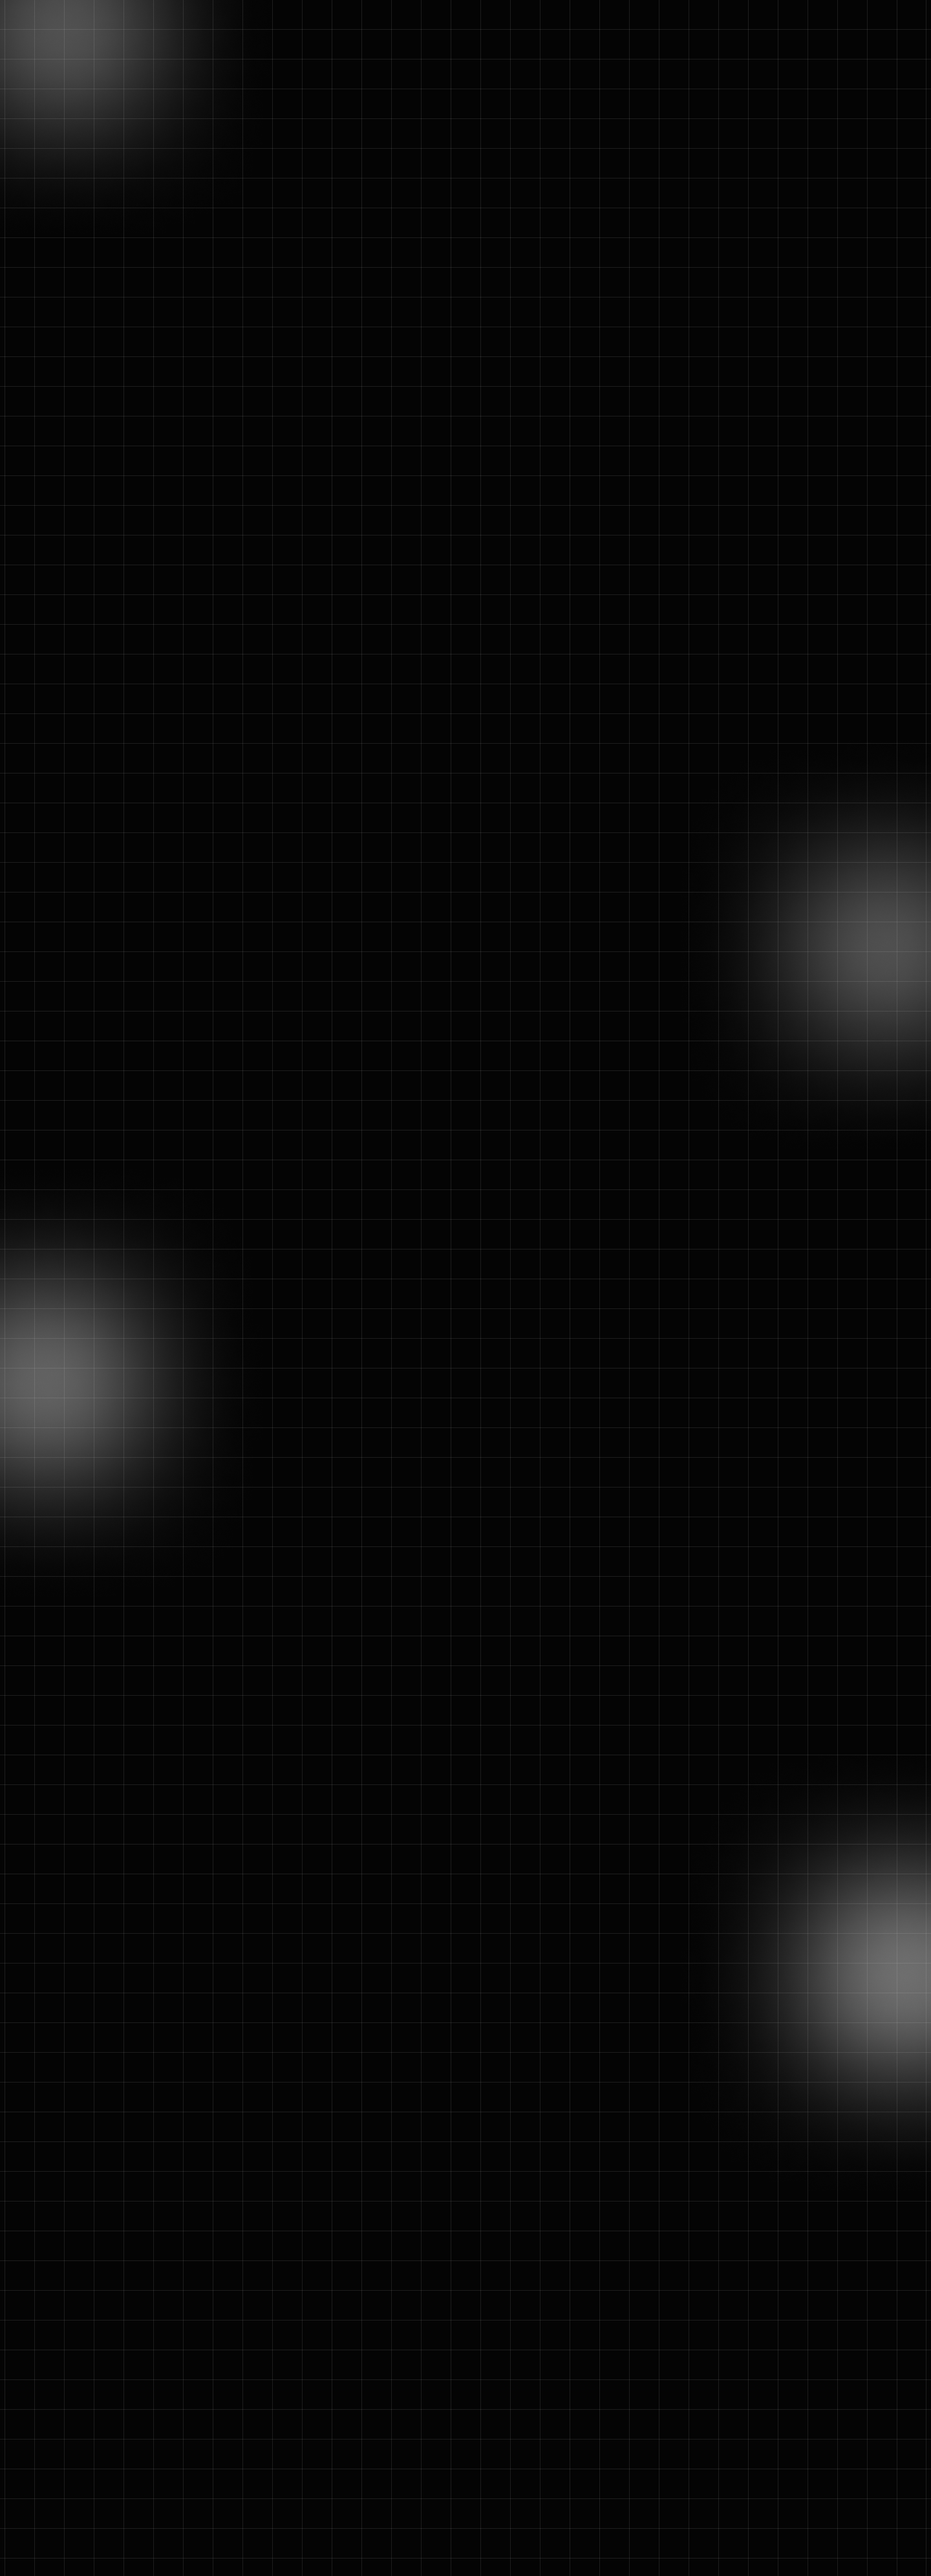
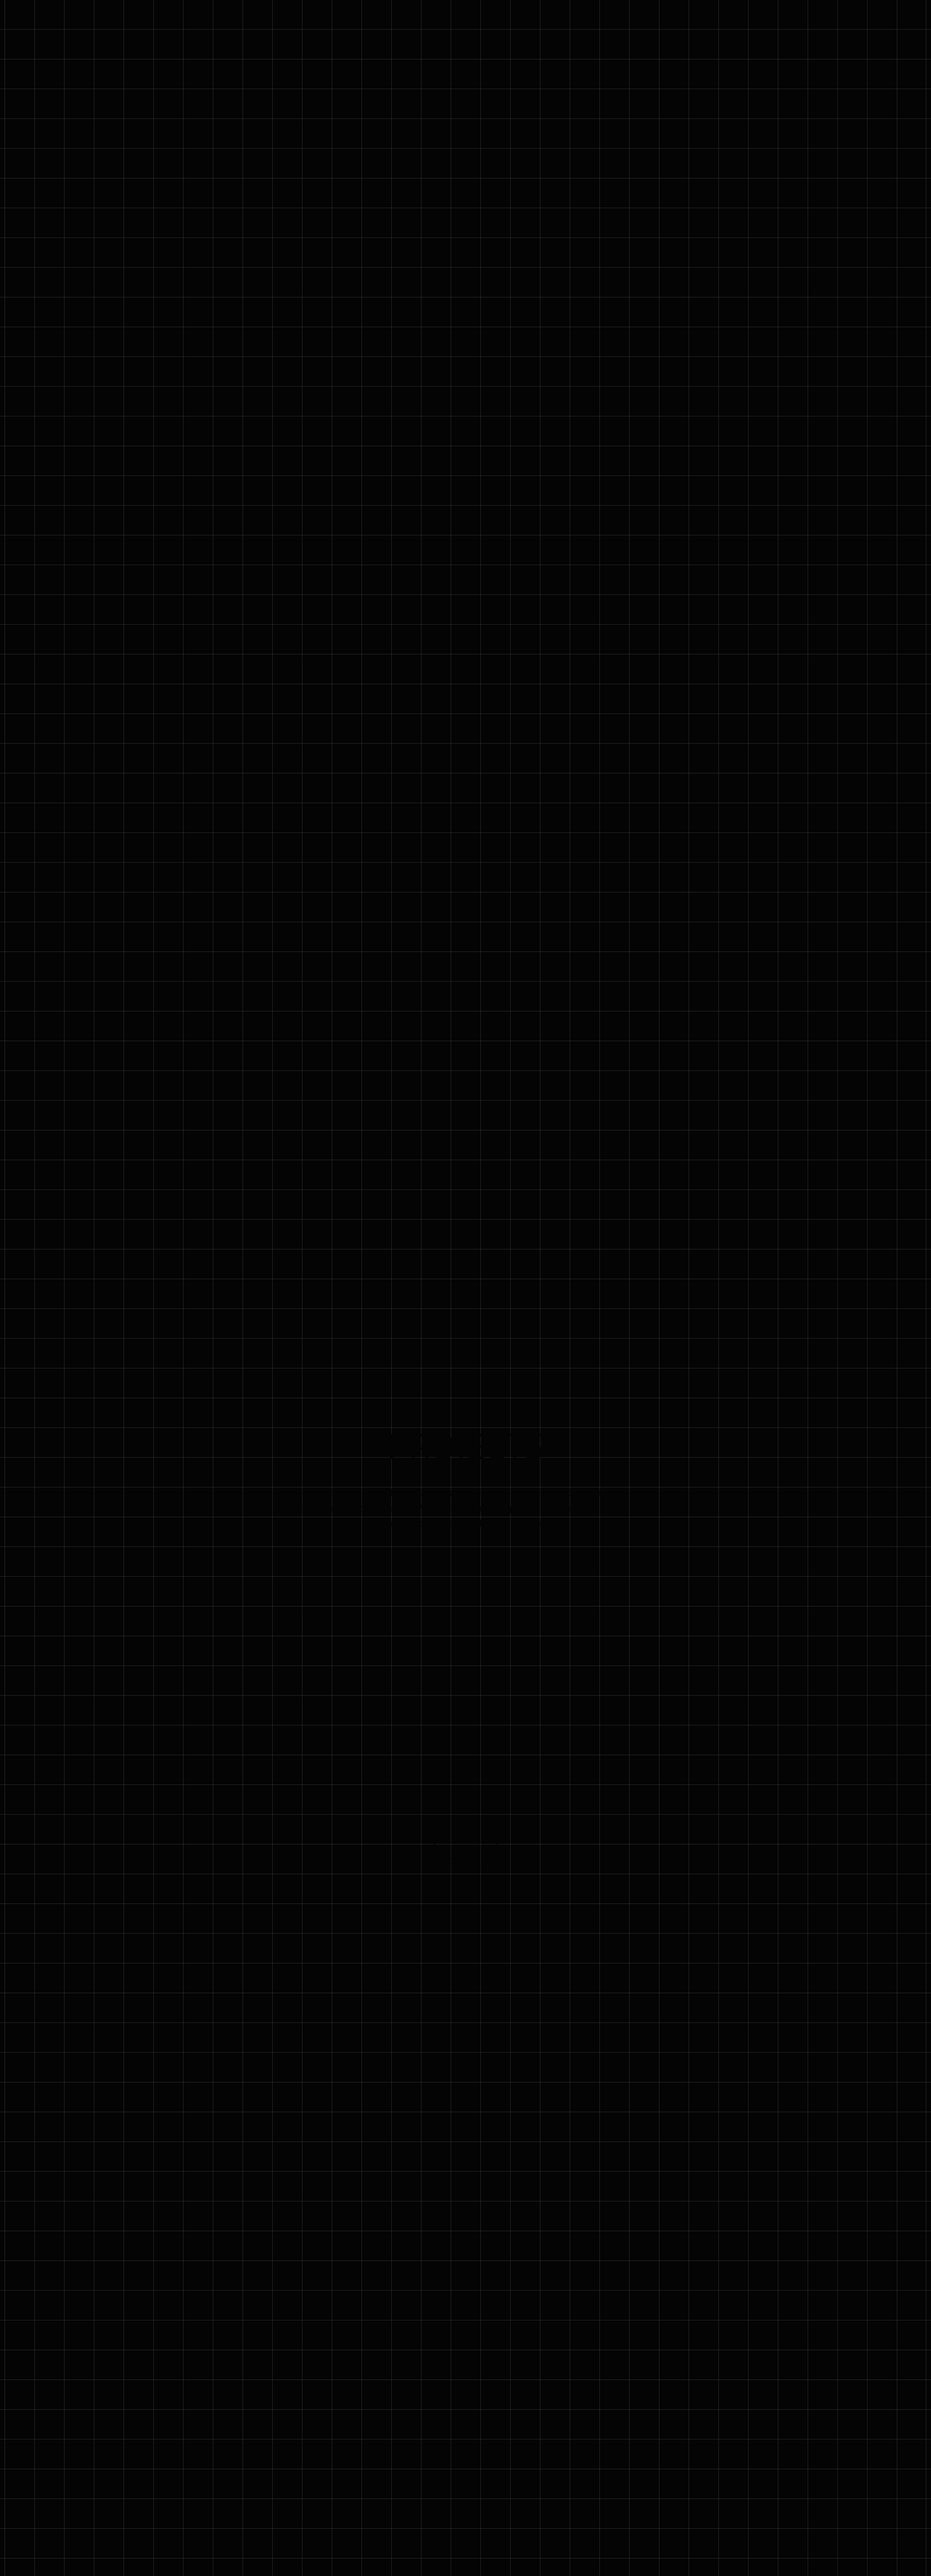
ok

diff --git a/src/App.css b/src/App.css
@@ -202,12 +202,6 @@
   background-repeat: no-repeat;
 }
 
-.bg_header_img {
-  background-image: url(../src/assets/image/png/bg_header_img.png);
-  background-size: 100% 100%;
-  background-repeat: no-repeat;
-  background-position: center;
-}
 
 /* -----------all btn------------------- */
 .Connect_Wallet {
@@ -438,6 +432,9 @@ svg.Arrow_clr_change path {
   min-height: 80vh;
 }
 
+.z_index_n_2 {
+  z-index: -2;
+}
 
 /* ---------------------stack card -----------------------*/
 .cards-box {
@@ -553,17 +550,13 @@ svg.Arrow_clr_change path {
   cursor: pointer;
 }
 
-/* .z_index_3 {
-  z-index: 3;
-} */
-
 /*---------- @media screen only root------------ */
 @media (max-width:576px) {
   :root {
     --fs_xsm: 15px;
     --fs_sm: 20px;
     --fs_md: 44px;
-    --fs_lg: 48px;
+    --fs_lg: 40px;
   }
 }
 
@@ -705,16 +698,7 @@ svg.Arrow_clr_change path {
 }
 
 @media (min-width:992px) {
-  .boll_stacked_card {
-    position: absolute;
-    width: 147px;
-    top: -78px;
-    right: -28px;
-    height: 147px;
-    background: linear-gradient(197.32deg, rgba(255, 255, 255, 0.95) 14.48%, #242424 88.11%);
-    box-shadow: 0px 4px 16px rgba(255, 255, 255, 0.1);
-    border-radius: 50%;
-  }
+
 
   .bg_wight {
     background-color: unset;
@@ -727,6 +711,30 @@ svg.Arrow_clr_change path {
   }
 
 
+}
+
+@media (min-width:1200px) {
+  .boll_stacked_card {
+    position: absolute;
+    width: 147px;
+    top: -78px;
+    right: -28px;
+    height: 147px;
+    background: linear-gradient(197.32deg, rgba(255, 255, 255, 0.95) 14.48%, #242424 88.11%);
+    box-shadow: 0px 4px 16px rgba(255, 255, 255, 0.1);
+    border-radius: 50%;
+  }
+
+  .bg_header_img {
+    background-image: url(../src/assets/image/png/bg_header_img.png);
+    background-size: 100% 100%;
+    background-repeat: no-repeat;
+    background-position: center;
+  }
+
+  .min_vh_100 {
+    min-height: 100vh;
+  }
 }
 
 @media (min-width:1400px) {
@@ -752,4 +760,21 @@ svg.Arrow_clr_change path {
 
 .scale {
   transition: all 500ms linear;
+}
+
+.slick-dots li button:before {
+  font-family: 'slick';
+  font-size: 10px !important;
+  line-height: 20px;
+  position: absolute;
+  top: 0;
+  left: 0;
+  width: 20px;
+  height: 20px;
+  content: '•';
+  text-align: center;
+  opacity: .25;
+  color: black;
+  -webkit-font-smoothing: antialiased;
+  -moz-osx-font-smoothing: grayscale;
 }

diff --git a/src/components/KarmicLabNav.jsx b/src/components/KarmicLabNav.jsx
@@ -1,6 +1,7 @@
 import React, { useState } from "react";
 import { Container, Nav, Row, Col } from "react-bootstrap";
 import PageLogo from "../assets/image/png/PageLogo.png";
+import nave_side_blur from "../assets/image/png/nave_side_blur.png";
 const KarmicLabNav = () => {
   const [nav, setnav] = useState(false);
   if (nav) {
@@ -10,6 +11,11 @@ const KarmicLabNav = () => {
   }
   return (
     <div className="position-relative z_index_10">
+      <img
+        src={nave_side_blur}
+        alt="nave_side_blur"
+        className=" position-absolute z_index_n_2"
+      />
       <Nav className="py-3   ">
         <Container
         // data-aos="zoom-in"
@@ -33,7 +39,7 @@ const KarmicLabNav = () => {
                 <li>
                   <a
                     className="d-inline-block fs_xsm text_stroke fw_medium  text-light ff_primary underline position-relative ms-3"
-                    href="#Privacy"
+                    href="#services"
                   >
                     Services
                   </a>
@@ -41,7 +47,7 @@ const KarmicLabNav = () => {
                 <li>
                   <a
                     className="d-inline-block fs_xsm text_stroke fw_medium  text-light ff_primary underline position-relative ms-3"
-                    href="#Products"
+                    href="#projects"
                   >
                     Projects
                   </a>
@@ -49,7 +55,7 @@ const KarmicLabNav = () => {
                 <li>
                   <a
                     className="d-inline-block fs_xsm text_stroke fw_medium  text-light ff_primary underline position-relative ms-3"
-                    href="#App"
+                    href="#About"
                   >
                     About
                   </a>

diff --git a/src/components/WeAreBelievers.jsx b/src/components/WeAreBelievers.jsx
@@ -36,11 +36,11 @@ const WeAreBelievers = () => {
 
   return (
     <>
-      <section className=" bg_header_img py-lg-5 flex-grow-1 d-flex justify-content-center align-items-center">
+      <section className=" bg_header_img py-4 py-xxl-5 flex-grow-1 d-flex justify-content-center align-items-center">
         <Container>
-          <Row className=" py-5 flex-column-reverse flex-lg-row align-items-center  justify-content-between">
+          <Row className=" py-xl-5 flex-column-reverse flex-lg-row align-items-center  justify-content-between">
             <Col lg="5" className=" pt-5 mt-md-5 mt-lg-0">
-              <h1 className=" fw-light ff_primary text-center text-lg-start fs_lg text-light">
+              <h1 className=" fw-light ff_primary text-center text-lg-start fs_lg text-light pt-4">
                 We are believers decentralization and{" "}
                 <span className=" position-relative web_line_after">Web3.</span>
               </h1>
@@ -76,7 +76,7 @@ const WeAreBelievers = () => {
             <Col
               lg="6"
               xl="5"
-              className=" py-5 py-lg-0 position-relative my-5 my-md-0"
+              className=" pb-5 py-md-5 py-lg-0 position-relative my-5 my-md-0"
             >
               <div className="boll_stacked_card"></div>
               <div class="cards-box m-auto">
@@ -153,7 +153,7 @@ const WeAreBelievers = () => {
               </div>
             </Col>
           </Row>
-          <div className=" text-center ">
+          <div className=" text-center pt-5 pt-lg-0 ">
             <a href="#fg">
               <img src={Arrow_1} alt="Arrow_1" />
             </a>

diff --git a/src/components/About.jsx b/src/components/About.jsx
@@ -6,10 +6,16 @@ import instgram from "../assets/image/svg/Instagram.svg";
 import twitter from "../assets/image/svg/Twitter.svg";
 import Facebook from "../assets/image/svg/Facebook.svg";
 import YouTube from "../assets/image/svg/YouTube.svg";
+import blur_end from "../assets/image/png/blur_end.png";
 const About = () => {
   return (
     <>
-      <section className=" pt-5 pb-2">
+      <section id="About" className=" pt-5 pb-2 position-relative">
+        <img
+          src={blur_end}
+          alt="blur_end"
+          className=" position-absolute d-none d-xl-inline-block end-0 z_index_n_2 bottom-50"
+        />
         <Container>
           <div className=" position-relative">
             <div className="Services_line_top d-none d-sm-inline-block "></div>
@@ -23,7 +29,7 @@ const About = () => {
               pretium diam aliquam montes, interdum malesuada.{" "}
             </p>
           </div>
-          <Row className=" justify-content-center pt-5">
+          <Row className=" justify-content-center pt-3 pt-xl-5">
             {AboutDataCard.map((value) => {
               return (
                 <Col md="6" lg="4">

diff --git a/src/components/Services.jsx b/src/components/Services.jsx
@@ -1,10 +1,18 @@
 import React from "react";
 import { Col, Container, Row } from "react-bootstrap";
 import ServicesCardData from "./ServicesCardData";
+import Ellipse from "../assets/image/png/Ellipse.png";
+
 const Services = () => {
   return (
     <>
-      <section className=" py-5">
+      <section id="services" className=" py-5 position-relative">
+        <img
+          src={Ellipse}
+          alt="Ellipse"
+          className=" position-absolute top-50 d-none d-xl-inline-block"
+        />
+
         <Container>
           <div className=" position-relative">
             <div className="Services_line_top d-none d-sm-inline-block "></div>
@@ -34,6 +42,7 @@ const Services = () => {
             })}
           </Row>
         </Container>
+      
       </section>
     </>
   );

diff --git a/src/components/UpcomingProjects.jsx b/src/components/UpcomingProjects.jsx
@@ -2,10 +2,16 @@ import React from "react";
 import { Container, Row, Col } from "react-bootstrap";
 
 import UpcomingProjectsData from "./UpcomingProjectsData";
+import bluar_rigth_side from "../assets/image/png/bluar_rigth_side.png";
 const UpcomingProjects = () => {
   return (
     <>
-      <section className=" py-5">
+      <section className=" mt-lg-5 mt-0 py-5 position-relative">
+        <img
+          src={bluar_rigth_side}
+          alt="bluar_rigth_side"
+          className=" position-absolute  end-0 top-50 "
+        />
         <Container>
           <div className=" position-relative">
             <div className="boder_line_upcomming d-none d-md-inline-block"></div>

diff --git a/src/components/Projects.jsx b/src/components/Projects.jsx
@@ -55,7 +55,7 @@ const Projects = () => {
   };
   return (
     <>
-      <section className="bg_wight pb-4 py-lg-5 bg_project_lg_img">
+      <section id="projects" className="bg_wight pb-4 py-lg-5 bg_project_lg_img">
         <Container>
           <div className=" position-relative pt-3 pt-md-5 pb-2">
             <div className=" Projects_boder_top d-none d-md-inline-block "></div>

diff --git a/src/App.js b/src/App.js
@@ -9,7 +9,7 @@ import Projects from "./components/Projects";
 function App() {
   return (
     <>
-      <div className="min-vh-100 d-flex flex-column">
+      <div className="min_vh_100 d-flex flex-column">
         <KarmicLabNav />
         <WeAreBelievers />
       </div>
